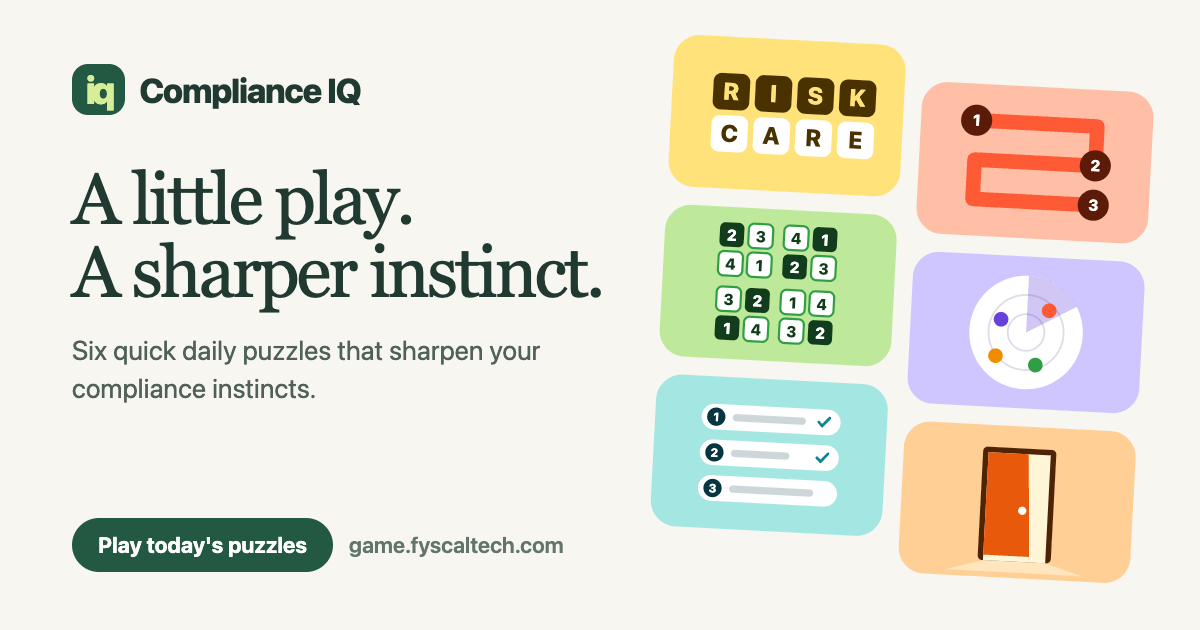
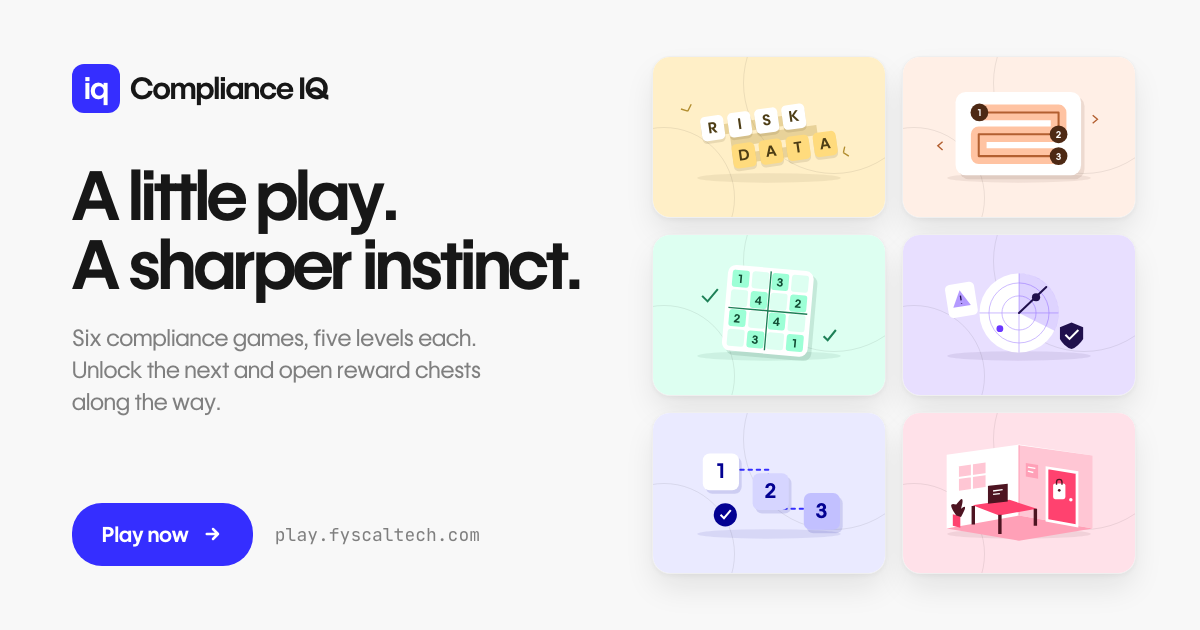
New link-preview image in the current Play UI

diff --git a/index.html b/index.html
@@ -14,7 +14,7 @@ gtag("consent", "default", { ad_storage: "denied", ad_user_data: "denied", ad_pe
   j.src = "https://www.googletagmanager.com/gtm.js?id=" + encodeURIComponent(i);
   d.head.appendChild(j);
 })(window, document, window.GTM_ID);
-</script><meta name="viewport" content="width=device-width,initial-scale=1"><title>Compliance IQ · A little play. A sharper instinct.</title><meta name="description" content="Six compliance games, five levels each. Play one at a time, unlock the next, and open reward chests along the way."><meta property="og:type" content="website"><meta property="og:url" content="https://play.fyscaltech.com/"><link rel="canonical" href="https://play.fyscaltech.com/"><meta property="og:title" content="Compliance IQ Play · Compliance games by Fyscal"><meta property="og:description" content="Six compliance games, five levels each. Can you beat my score?"><meta property="og:site_name" content="Compliance IQ"><meta property="og:image" content="https://play.fyscaltech.com/og-image.png"><meta property="og:image:type" content="image/png"><meta property="og:image:width" content="1200"><meta property="og:image:height" content="630"><meta property="og:image:alt" content="Compliance IQ: A little play. A sharper instinct. Six compliance game cards."><meta name="twitter:card" content="summary_large_image"><meta name="twitter:image" content="https://play.fyscaltech.com/og-image.png"><link rel="stylesheet" href="design-system/colors_and_type.css"><style>
+</script><meta name="viewport" content="width=device-width,initial-scale=1"><title>Compliance IQ · A little play. A sharper instinct.</title><meta name="description" content="Six compliance games, five levels each. Play one at a time, unlock the next, and open reward chests along the way."><meta property="og:type" content="website"><meta property="og:url" content="https://play.fyscaltech.com/"><link rel="canonical" href="https://play.fyscaltech.com/"><meta property="og:title" content="Compliance IQ Play · Compliance games by Fyscal"><meta property="og:description" content="Six compliance games, five levels each. Can you beat my score?"><meta property="og:site_name" content="Compliance IQ"><meta property="og:image" content="https://play.fyscaltech.com/og-image.png?v=2"><meta property="og:image:type" content="image/png"><meta property="og:image:width" content="1200"><meta property="og:image:height" content="630"><meta property="og:image:alt" content="Compliance IQ: A little play. A sharper instinct. Six compliance games, five levels each."><meta name="twitter:card" content="summary_large_image"><meta name="twitter:image" content="https://play.fyscaltech.com/og-image.png?v=2"><link rel="stylesheet" href="design-system/colors_and_type.css"><style>
 /* Colours come from design-system/colors_and_type.css (MaV · Fyscal New Design Guidelines 2026) */*{box-sizing:border-box}body{margin:0;background:var(--surface-soft);color:var(--fg);font:var(--w-regular) var(--size-md)/1.5 var(--font-body);-webkit-font-smoothing:antialiased}button,select,input,textarea{font:inherit;color:inherit}button{cursor:pointer}button:disabled{opacity:.45;cursor:default}button:focus-visible,a:focus-visible,select:focus-visible{outline:3px solid var(--focus-ring);outline-offset:3px}button{touch-action:manipulation}header{background:var(--bg);border-bottom:1px solid var(--border)}.nav{max-width:1160px;margin:auto;display:flex;align-items:center;justify-content:space-between;padding:20px 28px;gap:16px}.brand{font-weight:var(--w-semibold);letter-spacing:-.02em;font-size:24px;display:flex;align-items:center;gap:10px}.logo{background:var(--primary);color:#fff;padding:2px 10px;border-radius:12px;letter-spacing:-.02em;font-size:var(--size-h-lg)}.nav small{color:var(--fg-muted)}.pill,.outline{border:1px solid var(--border);background:transparent;border-radius:30px;padding:9px 17px;font-size:14px;font-weight:600}.pill{background:var(--surface);border-color:var(--border-input)}.pill:hover,.outline:hover{background:var(--mono-100)}.wrap{max-width:1160px;margin:auto;padding:36px 28px 70px}.eyebrow{font-size:12px;text-transform:uppercase;letter-spacing:.06em;font-weight:var(--w-semibold);color:var(--fg-muted)}h1,h2,h3,p{margin-top:0}h1{font-family:var(--font-display);font-weight:var(--w-semibold);letter-spacing:-.03em;font-size:clamp(32px,5vw,var(--size-hero));line-height:1.05;margin:14px 0 20px}h2{font-size:24px;letter-spacing:-.02em;font-weight:var(--w-semibold)}h3{font-size:20px;letter-spacing:-.02em;font-weight:var(--w-semibold)}.hero{display:grid;grid-template-columns:1.6fr 1fr;gap:40px;padding:16px 0 36px;align-items:center}.hero p{color:var(--fg-muted);max-width:540px;font-size:var(--size-lg)}.daily{border:1px solid var(--border);background:var(--bg-tertiary);border-radius:20px;padding:25px;position:relative}.daily strong{font-size:32px;letter-spacing:-.02em;font-family:var(--font-mono);font-weight:var(--w-semibold);font-variant-numeric:tabular-nums}.dots{display:flex;gap:9px;margin:16px 0}.dot{border-radius:50%;background:#fff;width:35px;height:35px;display:grid;place-items:center;border:1px solid var(--border-input)}.dot.yes{background:var(--primary);border-color:var(--primary);color:#fff}.section-head{display:flex;justify-content:space-between;align-items:center;margin-bottom:20px;gap:12px}.section-head h2{margin:0}.muted{color:var(--fg-muted)}.cards{display:grid;grid-template-columns:repeat(3,1fr);gap:18px}.card{border:1px solid var(--border);border-radius:18px;overflow:hidden;background:var(--surface);transition:transform .18s,box-shadow .18s;display:flex;flex-direction:column}.card:hover{transform:translateY(-4px);box-shadow:var(--shadow-sm)}.art{height:150px;display:grid;place-items:center;position:relative;background:var(--tint);overflow:hidden}.art:before,.art:after{content:'';position:absolute;width:140px;height:140px;border:1px solid rgba(16,16,19,.08);border-radius:50%;left:-60px;top:70px}.art:after{left:auto;right:-40px;top:-65px;width:180px;height:180px}.game-illustration{width:100%;height:100%;position:relative;z-index:1}.mini{display:grid;grid-template-columns:repeat(3,30px);gap:4px;transform:rotate(-7deg)}.mini span{display:grid;place-items:center;background:var(--surface);border:1.5px solid var(--fg);border-radius:6px;width:30px;height:30px;font-weight:var(--w-semibold);box-shadow:0 3px 0 rgba(16,16,19,.08)}.card-body{padding:22px;flex:1;display:flex;flex-direction:column}.card h3{margin:0 0 4px}.card p{font-size:14px;color:var(--fg-muted);margin:10px 0 20px;flex:1}.meta{font-size:12px;display:flex;justify-content:space-between;color:var(--fg-muted)}.play{border:0;border-radius:30px;background:var(--primary);color:#fff;padding:11px 20px;font-weight:var(--w-semibold);transition:background .15s}.play:hover{background:var(--tertiary-2)}.card .play{width:100%;display:flex;justify-content:space-between}.strip{margin-top:28px;background:var(--bg-tertiary);border-radius:16px;padding:22px 26px;display:flex;justify-content:space-between;gap:25px;align-items:center}.strip p{margin:5px 0 0;font-size:14px;color:var(--fg-muted)}footer{margin-top:40px;border-top:1px solid var(--border);padding-top:20px;font-size:12px;color:var(--fg-muted);display:flex;justify-content:space-between;gap:16px}.game-title{display:flex;align-items:center;gap:16px}.game-title h1{font-size:var(--size-xl2);margin:10px 0}.game-layout{display:grid;grid-template-columns:minmax(0,620px) 300px;gap:24px;justify-content:center;margin-top:24px}.panel{background:var(--surface);border:1px solid var(--border);border-radius:20px;padding:26px}.game-top{display:flex;justify-content:space-between;align-items:center;margin-bottom:22px}.timer{font-variant-numeric:tabular-nums;font-size:20px;font-family:var(--font-mono)}.board{max-width:440px;margin:0 auto 20px}.grid{display:grid;gap:6px}.tile{border:1px solid var(--border-input);background:var(--surface-soft);border-radius:10px;aspect-ratio:1;font-weight:var(--w-semibold);font-size:24px;display:grid;place-items:center;position:relative;min-width:0;padding:0}.tile.selected{background:var(--primary);color:#fff;border-color:var(--primary)}.tile.found{background:var(--success-soft);border-color:var(--success)}.tile.last{outline:3px solid var(--warning);outline-offset:-4px}.trail-board{position:relative;touch-action:none;user-select:none;-webkit-user-select:none}.trail-cell{border-radius:6px;cursor:pointer}.trail-cell.visited{background:var(--primary-soft);border-color:var(--tertiary-1)}.trail-svg{position:absolute;inset:0;width:100%;height:100%;pointer-events:none;overflow:visible}.tile small{position:absolute;bottom:0;right:5px;font-size:10px;opacity:.8}.actions{display:flex;gap:10px;justify-content:center;flex-wrap:wrap}.actions button{flex:1}.message{padding:12px 16px;background:var(--bg-tertiary);border-radius:10px;min-height:48px;margin-top:18px;font-size:14px}.instructions p,.instructions li{font-size:14px;color:var(--fg-muted)}.instructions ol{padding-left:20px}.instructions h3{font-size:16px}.tag{display:inline-block;padding:4px 9px;border-radius:6px;background:var(--primary-soft);color:var(--primary);font-size:12px;margin:3px}.word-status{display:flex;justify-content:center;gap:7px;flex-wrap:wrap;margin-bottom:18px}.prompt{font-family:var(--font-display);font-size:var(--size-h-lg);line-height:1.3;margin:18px 0 25px;font-weight:var(--w-medium);letter-spacing:-.01em}.choices{display:grid;grid-template-columns:1fr 1fr;gap:10px}.choice{background:var(--surface-soft);border:1px solid var(--border);border-radius:12px;padding:16px;text-align:left}.choice:hover{background:var(--primary-soft);border-color:var(--tertiary-1)}.sequence{list-style:none;padding:0;display:grid;gap:9px}.step{display:flex;align-items:center;gap:12px;border:1px solid var(--border);border-radius:12px;padding:12px;background:var(--surface-soft)}.step span{flex:1;font-size:14px}.step button{border:0;background:var(--mono-100);border-radius:8px;min-width:36px;min-height:36px}.step b{color:var(--fg-muted);font-size:12px}.result{text-align:center;background:var(--bg-tertiary);padding:35px;border-radius:20px;margin-bottom:24px}.result h2{font-family:var(--font-display);font-size:var(--size-xl2);font-weight:var(--w-semibold);margin:12px 0;letter-spacing:-.03em}.medal{font-size:var(--size-xl3)}.stats{display:grid;grid-template-columns:repeat(3,1fr);gap:8px;margin:24px 0}.stats strong{display:block;font-size:var(--size-h-lg);font-family:var(--font-mono);font-weight:var(--w-semibold);font-variant-numeric:tabular-nums}.stats span{font-size:12px;color:var(--fg-muted)}.badge-grid{display:grid;grid-template-columns:repeat(4,1fr);gap:12px}.badge{border:1px solid var(--border);background:var(--surface);border-radius:14px;text-align:center;padding:20px 10px;filter:grayscale(1);opacity:.5}.badge.earned{filter:none;opacity:1;background:var(--primary-soft);border-color:var(--tertiary-1)}.badge b{display:block;font-size:var(--size-h-lg)}.badge span{font-size:12px}.hidden{display:none!important}.keypad{display:flex;justify-content:center;gap:10px;margin-bottom:20px}.keypad button{width:54px;height:48px;background:var(--surface-soft);border:1px solid var(--border-input);border-radius:10px;font-weight:var(--w-semibold);font-family:var(--font-mono)}.hint-copy{font-size:var(--size-base);color:var(--fg-muted);margin-top:18px}.progress{height:5px;background:var(--mono-100);border-radius:9px;overflow:hidden;margin:15px 0}.progress i{display:block;height:100%;background:var(--primary)}@media(max-width:850px){.cards{grid-template-columns:repeat(2,1fr)}.game-layout{grid-template-columns:minmax(0,600px)}.instructions{order:initial}.instructions ol{margin-bottom:0}.hero{gap:24px}.nav small{display:none}}@media(max-width:560px){.wrap{padding:25px 18px 45px}.nav{padding:15px 18px}.brand{font-size:18px;white-space:nowrap}.nav{gap:10px}.nav>.pill{font-size:12px;padding:9px 12px;white-space:nowrap}.hero{grid-template-columns:1fr;gap:16px;padding-top:0}h1{letter-spacing:-.03em}.cards{grid-template-columns:1fr}.art{height:125px}.card-body{padding:20px}.strip{align-items:flex-start;flex-direction:column}.panel{padding:18px}.game-title h1{font-size:32px}.game-title{gap:10px}.game-title .outline{padding:8px 12px}.badge-grid{grid-template-columns:1fr 1fr}.game-layout{margin-top:12px;gap:14px}.tile{font-size:var(--size-h-md)}.section-head{align-items:flex-start}.section-head .muted{font-size:12px}.choices{grid-template-columns:1fr}.stats strong{font-size:var(--size-h-md)}footer{flex-direction:column}.step{gap:8px;padding:10px}.step button{min-width:32px}}@media(prefers-reduced-motion:reduce){*{transition:none!important}} 
 
 .office-room{height:350px;position:relative;overflow:hidden;border:2px solid var(--mono-800);border-radius:15px;background:linear-gradient(180deg,var(--surface-ios) 0 73%,var(--mono-100) 73%);margin-bottom:18px;isolation:isolate}.office-room:before{content:'';position:absolute;left:0;right:0;top:73%;height:3px;background:var(--mono-800)}.office-window{position:absolute;left:7%;top:10%;width:24%;height:30%;border:6px solid #fff;background:linear-gradient(135deg,var(--tertiary-1),var(--bg-tertiary));box-shadow:0 0 0 2px var(--mono-500)}.office-window:before{content:'';position:absolute;left:45%;height:100%;width:4px;background:#fff}.office-window:after{content:'';position:absolute;top:45%;width:100%;height:4px;background:#fff}.hotspot{position:absolute;border:2px solid var(--fg);border-radius:7px;font-size:12px;font-weight:var(--w-semibold);box-shadow:0 5px 0 rgba(16,16,19,.14);transition:filter .15s,transform .15s;z-index:2;padding:8px}.hotspot:hover{filter:brightness(1.08);transform:translateY(-3px)}.hotspot.focused{outline:3px solid var(--focus-ring);outline-offset:3px}.hotspot.solved:after{content:'✓';position:absolute;top:-12px;right:-8px;background:var(--success);color:#fff;border:2px solid #fff;border-radius:50%;width:22px;height:22px;display:grid;place-items:center}.room-desk{left:7%;bottom:13%;width:44%;height:19%;background:var(--mono-300);border-bottom-width:8px}.room-screen{left:16%;bottom:35%;width:26%;height:24%;background:var(--ink);color:var(--tertiary-1);border:5px solid var(--mono-700)}.room-screen:before{content:'▰  ▰  ▰';display:block;font-size:20px;letter-spacing:3px;color:var(--tertiary-1)}.room-files{right:25%;bottom:15%;width:20%;height:32%;background:repeating-linear-gradient(var(--mono-200) 0 32%,var(--mono-500) 32% 34%);padding-top:30px}.room-board{left:40%;top:8%;width:30%;height:23%;background:var(--bg-tertiary);border:6px solid #fff;transform:rotate(-3deg)}.room-door{right:4%;bottom:20%;width:19%;height:54%;background:var(--primary);color:#fff;border-width:5px}.room-door:before{content:'EXIT';display:block;position:absolute;top:-30px;left:0;right:0;background:var(--tertiary-2);color:#fff;font-size:10px;padding:2px}.room-door:after{content:'●';position:absolute;right:8%;top:55%;color:var(--tertiary-1)}.office-caption{position:absolute;left:7%;top:47%;font-size:var(--size-xs);color:var(--mono-600);letter-spacing:.06em;font-weight:var(--w-semibold)}.notebook{display:flex;gap:8px;flex-wrap:wrap;margin:12px 0 20px}.clue-digit{flex:1;min-width:62px;text-align:center;background:var(--surface-soft);border:1px solid var(--border);border-radius:9px;padding:9px 3px;font-size:10px;letter-spacing:.06em}.clue-digit b{display:block;font-size:var(--size-h-lg);letter-spacing:0;font-family:var(--font-mono)}.clue-panel{background:var(--surface-soft);border:1px solid var(--border);border-radius:13px;padding:20px;margin-bottom:20px}.clue-panel h3{font-size:var(--size-h-md);margin-bottom:8px}.clue-panel p{font-size:14px}.clue-panel .choice{background:var(--surface);font-size:14px}.exit-code{width:100%;font-size:var(--size-xl);letter-spacing:.5em;text-align:center;padding:12px;border:1px solid var(--border-input);border-radius:10px;margin:6px 0 12px;background:var(--surface);color:var(--fg);font-family:var(--font-mono)}.office-intro{font-size:14px;color:var(--fg-muted)}@media(max-width:560px){.office-room{height:290px}.hotspot{font-size:10px;padding:5px}.room-screen{border-width:4px}.room-board{border-width:4px}.clue-panel{padding:16px}.room-files{right:26%}.office-caption{font-size:var(--size-xs)}}
